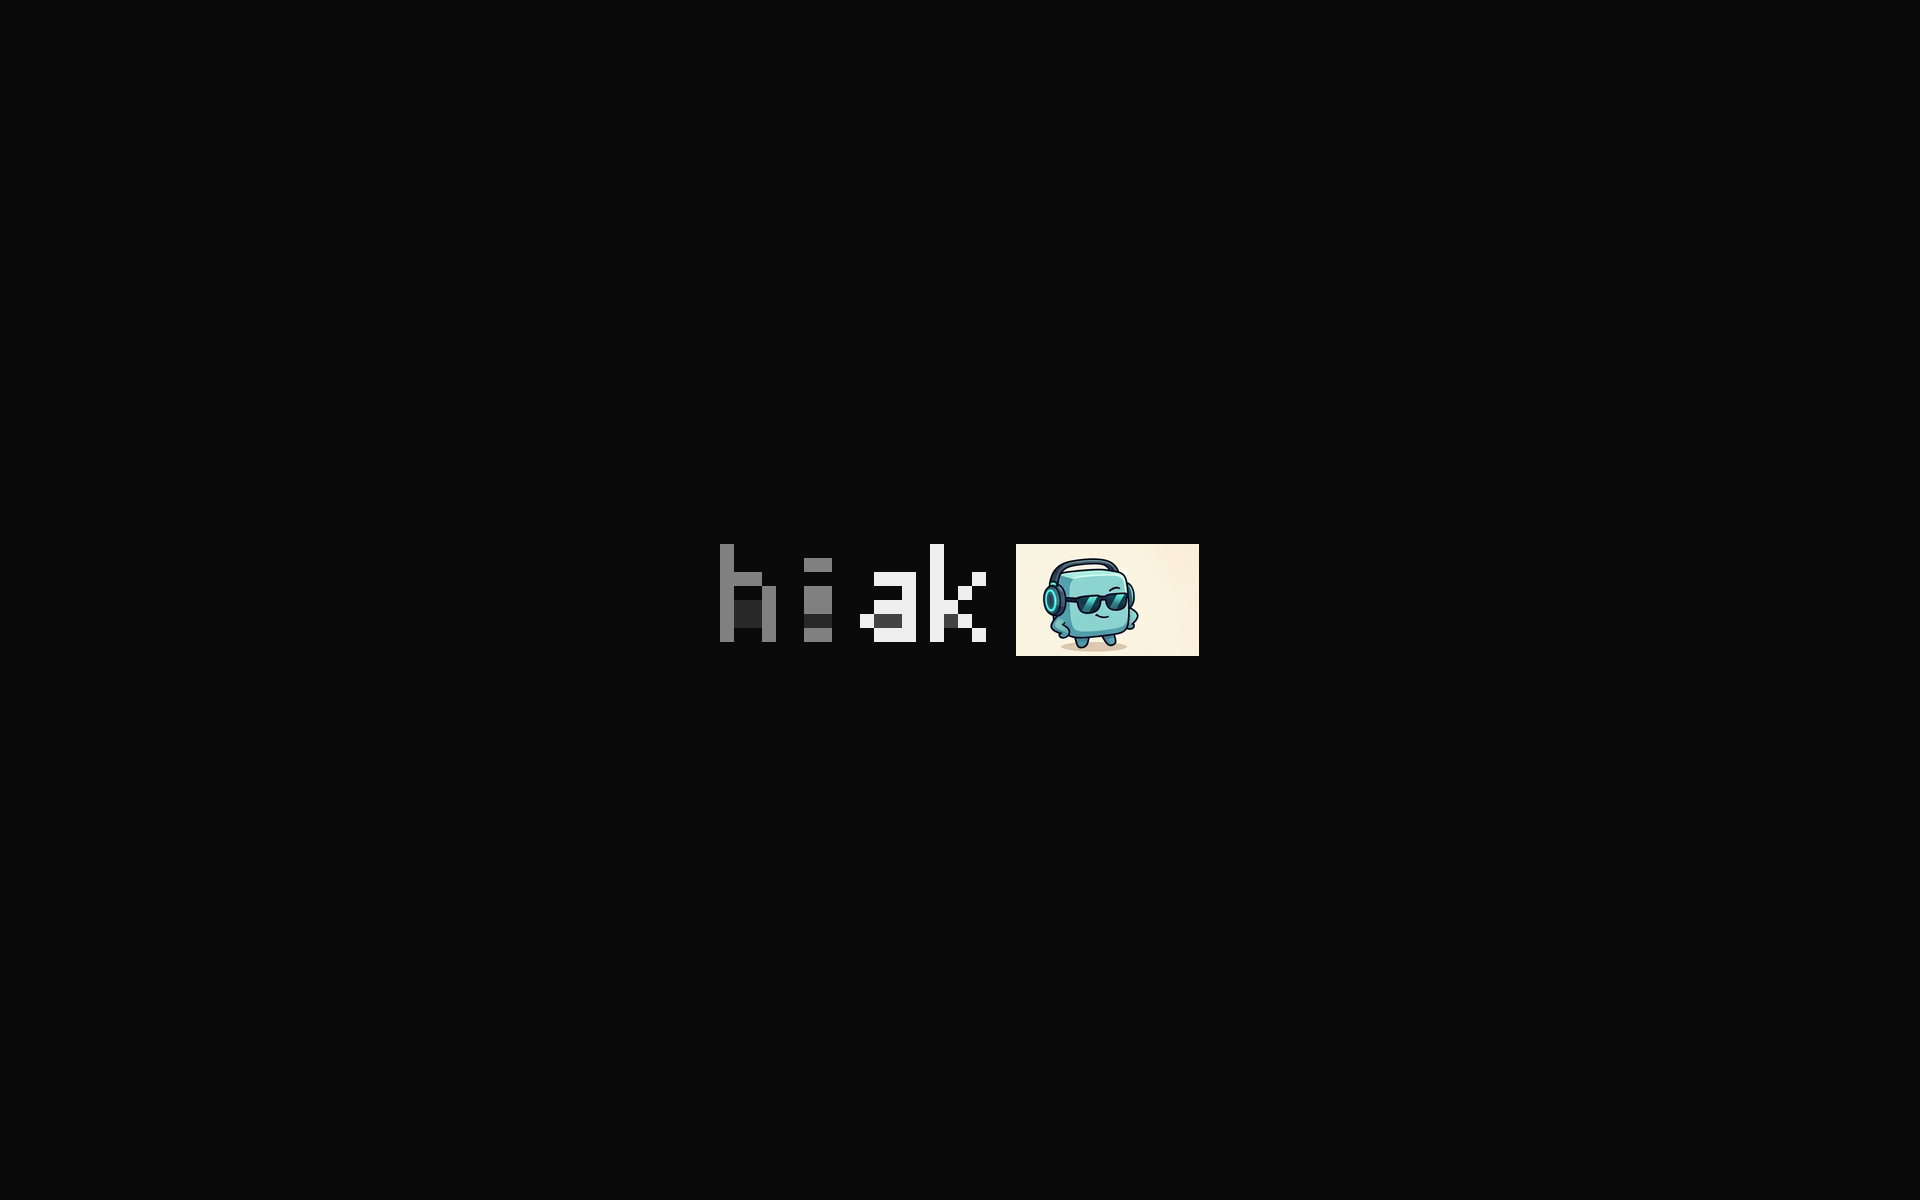
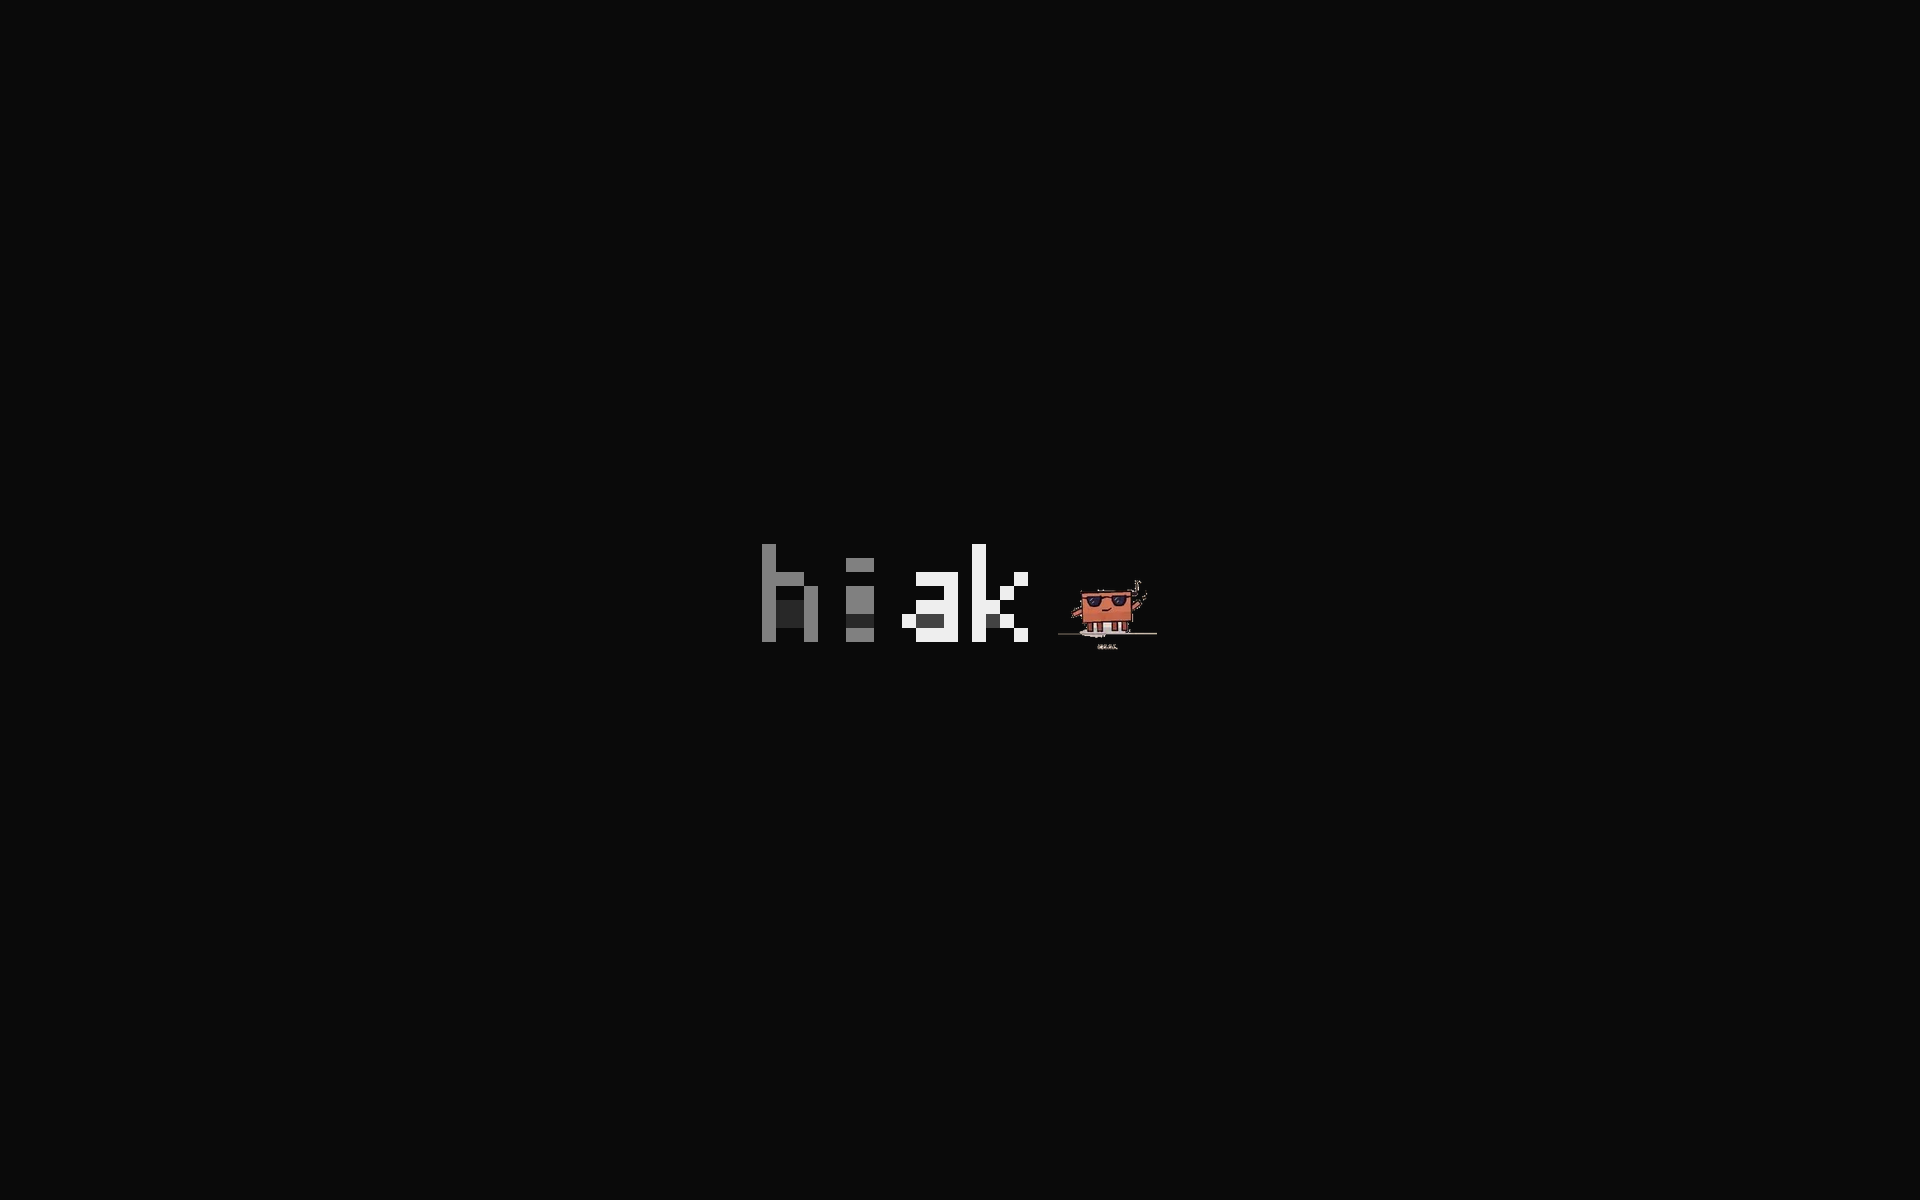
Use designated Brown Claude mascot for HIAK, pure pixels during morph, and Option 4 Cyber-Bot for HARSHA

Changed region(s): [[0.375, 0.4317, 0.625, 0.555]]

diff --git a/core/reformat_wallpapers.py b/core/reformat_wallpapers.py
@@ -1,15 +1,20 @@
 """
 Reformat Wallpaper Suite for Medium Scale & Exact 1920x1200 Center Alignment
-STRICT MASCOT DISPLAY RULE:
-- BEFORE hover / default state: Shows HIAK with designated Orange Brick Mascot
+DESIGNATED MASCOTS:
+- HIAK: Designated Brown Claude Mascot (assets/mascots/claude/)
+- HARSHA: Designated Option 4 Floating Cyber-Bot (assets/mascots/cyber_bot/)
+STRICT DISPLAY RULE:
+- BEFORE hover / default state: Shows HIAK with designated Brown Claude Mascot
 - WHILE ANIMATING / PIXELATING: Shows ONLY the glitching/dissolving PIXELS! NO CARTOON MASCOT AT ALL!
 - AFTER hover / HARSHA state: Shows HARSHA with designated Option 4 Floating Cyber-Bot
 - WHILE RETURNING / PIXELATING: Shows ONLY the glitching/dissolving PIXELS! NO CARTOON MASCOT AT ALL!
 
 Uses GIF disposal=2 (Restore to background) so no previous frame pixels leak through!
 """
-import sys
+from collections import deque
 from pathlib import Path
+import sys
+import numpy as np
 from PIL import Image
 
 STUDIO_ROOT = Path(__file__).parent.parent.resolve()
@@ -18,7 +23,7 @@ sys.path.insert(0, str(STUDIO_ROOT))
 from core.opencode_font import render_opencode_image, BG
 from core.pixel_morph import generate_morph_text_image
 
-MASCOTS_DIR = STUDIO_ROOT / "assets" / "mascots" / "hiak"
+CLAUDE_DIR = STUDIO_ROOT / "assets" / "mascots" / "claude"
 BOT_DIR = STUDIO_ROOT / "assets" / "mascots" / "cyber_bot"
 WALLPAPERS_DIR = STUDIO_ROOT / "assets" / "wallpapers"
 POSES_DIR = WALLPAPERS_DIR / "poses"
@@ -29,6 +34,40 @@ SCREEN_H = 1200
 SCALE = 14          # Medium OpenCode scale: 8 rows * 14px = 112px height
 TARGET_H = 112      # Exact lockup height
 SPACING = 30        # Spacing between logo and mascot
+
+
+def make_claude_transparent(img_path) -> Image.Image:
+    """Removes the outer cream/tan background from the Claude mascot images."""
+    im = Image.open(str(img_path)).convert("RGBA")
+    arr = np.array(im)
+    h, w = arr.shape[:2]
+    
+    corners = [arr[0, 0, :3], arr[0, w-1, :3], arr[h-1, 0, :3], arr[h-1, w-1, :3]]
+    bg_ref = np.median(corners, axis=0).astype(float)
+    
+    diff = np.linalg.norm(arr[:, :, :3].astype(float) - bg_ref, axis=2)
+    is_bg_candidate = diff < 38
+    
+    visited = np.zeros((h, w), dtype=bool)
+    queue = deque()
+    
+    for x in range(w):
+        if is_bg_candidate[0, x]: queue.append((0, x)); visited[0, x] = True
+        if is_bg_candidate[h-1, x]: queue.append((h-1, x)); visited[h-1, x] = True
+    for y in range(h):
+        if is_bg_candidate[y, 0]: queue.append((y, 0)); visited[y, 0] = True
+        if is_bg_candidate[y, w-1]: queue.append((y, w-1)); visited[y, w-1] = True
+        
+    while queue:
+        cy, cx = queue.popleft()
+        for dy, dx in [(-1, 0), (1, 0), (0, -1), (0, 1)]:
+            ny, nx = cy + dy, cx + dx
+            if 0 <= ny < h and 0 <= nx < w and not visited[ny, nx] and is_bg_candidate[ny, nx]:
+                visited[ny, nx] = True
+                queue.append((ny, nx))
+                
+    arr[visited, 3] = 0
+    return Image.fromarray(arr)
 
 
 def composite_centered(text_img: Image.Image, mascot_img: Image.Image = None, canvas_w=SCREEN_W, canvas_h=SCREEN_H) -> Image.Image:
@@ -57,12 +96,12 @@ def composite_centered(text_img: Image.Image, mascot_img: Image.Image = None, ca
 
 
 def reformat_all():
-    print(f"📐 Reformatting wallpapers: Pure pixels during morph, designated cartoons ONLY before/after...")
+    print("📐 Reformatting wallpapers with Brown Claude Mascot for HIAK & Option 4 Cyber-Bot for HARSHA...")
     
     # 1. Base HIAK logo at scale 14
     hiak_logo = render_opencode_image("hiak", scale=SCALE, bg_color=None)
     
-    # 2. Re-render 7 HIAK poses in assets/wallpapers/poses (Designated Orange Brick poses)
+    # 2. Re-render 7 HIAK poses in assets/wallpapers/poses with the Brown Claude Mascot!
     POSES_DIR.mkdir(parents=True, exist_ok=True)
     pose_files = [
         ("1_neutral.png", "neutral.png"),
@@ -70,26 +109,27 @@ def reformat_all():
         ("3_wave.png", "excited.png"),
         ("4_idea.png", "idea.png"),
         ("5_cool.png", "cool.png"),
-        ("6_coding.png", "coding.png"),
+        ("6_coding.png", "thinking.png"),
         ("7_sleepy.png", "sleepy.png")
     ]
     for out_name, m_file in pose_files:
-        m_img = Image.open(str(MASCOTS_DIR / m_file)).convert("RGBA")
+        m_img = make_claude_transparent(CLAUDE_DIR / m_file)
         wp = composite_centered(hiak_logo, m_img)
         wp.save(str(POSES_DIR / out_name), quality=95)
-    print("  ✅ 7 HIAK desktop poses updated (1920x1200 medium centered)")
+    print("  ✅ 7 HIAK desktop poses updated with Brown Claude Mascot (1920x1200 medium centered)")
 
     # 3. Morph Sequence:
-    # Character ONLY appears before and after hovering!
-    # During pixelating morph: mascot_img is None (PURE PIXELS ONLY!)
+    # HIAK: Brown Claude Mascot (neutral.png)
+    # HARSHA: Option 4 Cyber-Bot (happy.png)
+    # Intermediate frames: PURE PIXELS ONLY! No mascot!
     MORPH_DIR.mkdir(parents=True, exist_ok=True)
     
-    brick_img = Image.open(str(MASCOTS_DIR / "neutral.png")).convert("RGBA")
+    claude_img = make_claude_transparent(CLAUDE_DIR / "neutral.png")
     cyber_bot_img = Image.open(str(BOT_DIR / "happy.png")).convert("RGBA")
 
     stages = [
-        # Frame 0: BEFORE hover -> Pure HIAK + Designated Orange Brick Mascot
-        (0.0, brick_img, "1_1_hiak_solid.png"),
+        # Frame 0: BEFORE hover -> Pure HIAK + Designated Brown Claude Mascot
+        (0.0, claude_img, "1_1_hiak_solid.png"),
         # Frame 1: WHILE ANIMATING -> PURE PIXELS ONLY! NO MASCOT!
         (0.25, None, "3_3_dissolve_start.png"),
         # Frame 2: HEAVY GLITCH -> PURE PIXELS ONLY! NO MASCOT!
@@ -111,27 +151,27 @@ def reformat_all():
         wp.save(str(MORPH_DIR / out_name), quality=95)
         frames_1200p.append(wp)
         
-    # Alias for backwards compatibility
+    # Aliases for backwards compatibility
     frames_1200p[4].save(str(MORPH_DIR / "6_6_harsha_coding.png"))
     frames_1200p[0].save(str(MORPH_DIR / "2_2_hiak_cool.png"))
     frames_1200p[4].save(str(MORPH_DIR / "7_7_harsha_cyber_bot_happy.png"))
 
-    # Save animated morph GIF with explicit disposal=2 on ALL frames
-    # disposal=2 ensures every frame restores to background so no previous character can bleed through!
+    # Save animated morph GIFs (both hiak_harsha_morph.gif and v2) with explicit disposal=2
     durations = [2400, 140, 160, 180, 2800, 160, 180]
     disposals = [2] * len(frames_1200p)
     
-    gif_path = WALLPAPERS_DIR / "hiak_harsha_morph.gif"
-    frames_1200p[0].save(
-        str(gif_path),
-        save_all=True,
-        append_images=frames_1200p[1:],
-        duration=durations,
-        disposal=disposals,
-        loop=0,
-        optimize=False
-    )
-    print(f"  ✅ Morph sequence & animated GIF updated with disposal=2: PURE PIXELS ONLY during animation! ({len(frames_1200p)} frames)")
+    for fname in ["hiak_harsha_morph.gif", "hiak_harsha_morph_v2.gif"]:
+        gif_path = WALLPAPERS_DIR / fname
+        frames_1200p[0].save(
+            str(gif_path),
+            save_all=True,
+            append_images=frames_1200p[1:],
+            duration=durations,
+            disposal=disposals,
+            loop=0,
+            optimize=False
+        )
+    print("  ✅ Morph sequence & animated GIFs updated with Brown Claude mascot & pure pixels!")
 
 
 if __name__ == "__main__":
